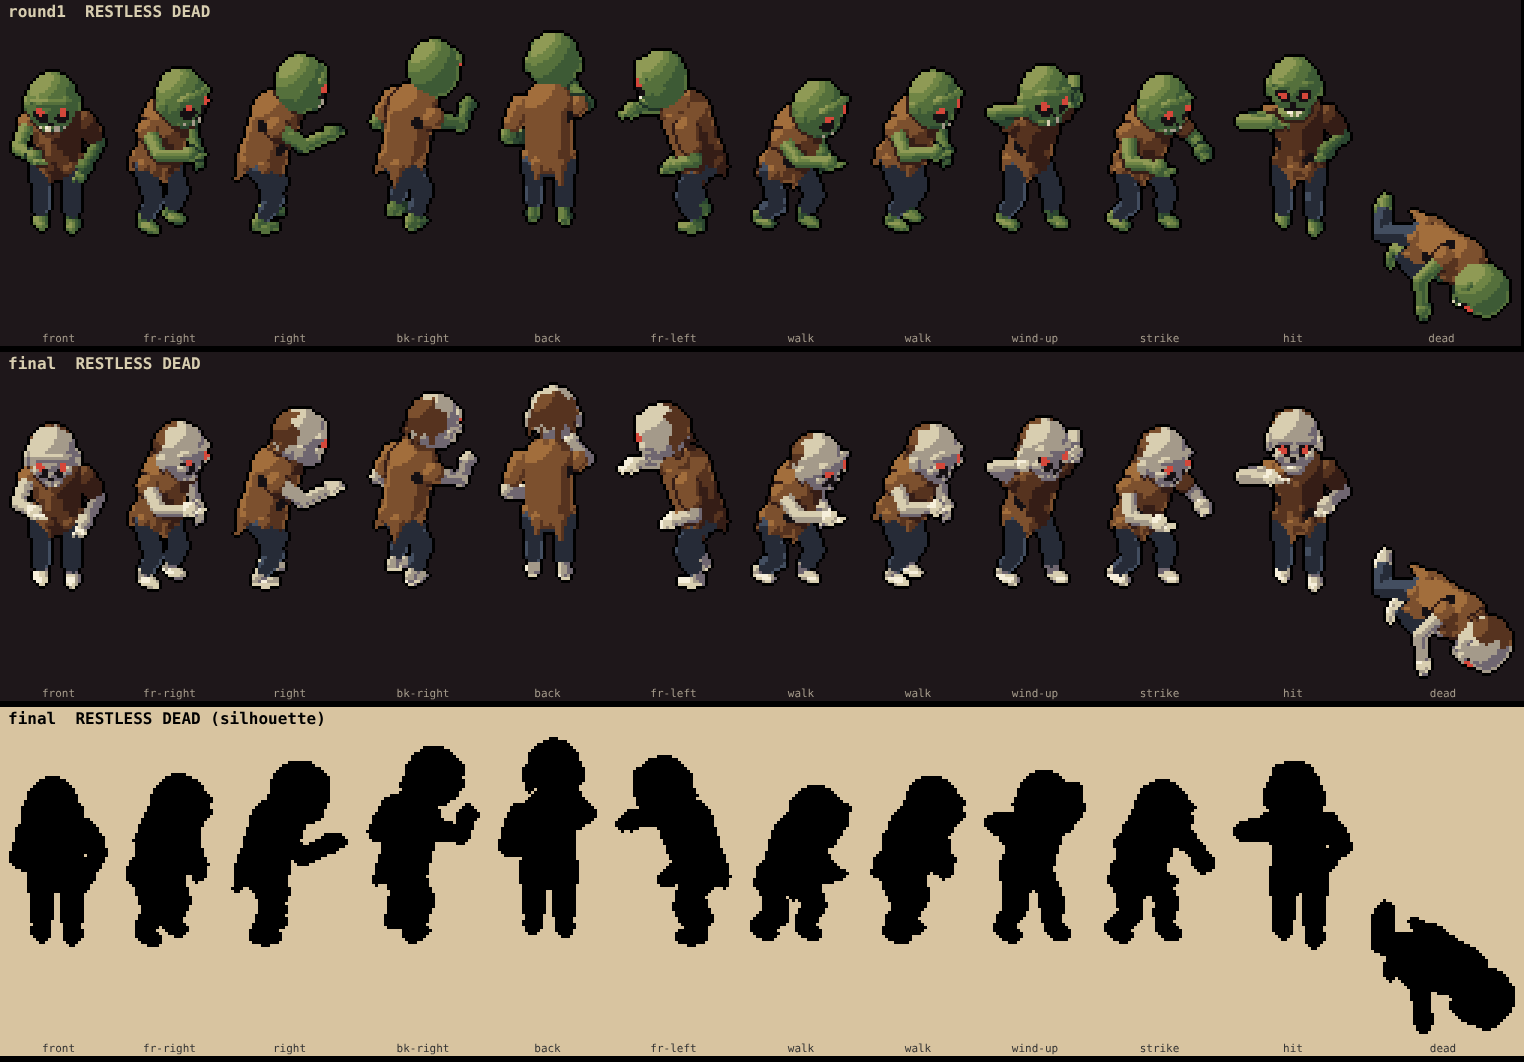
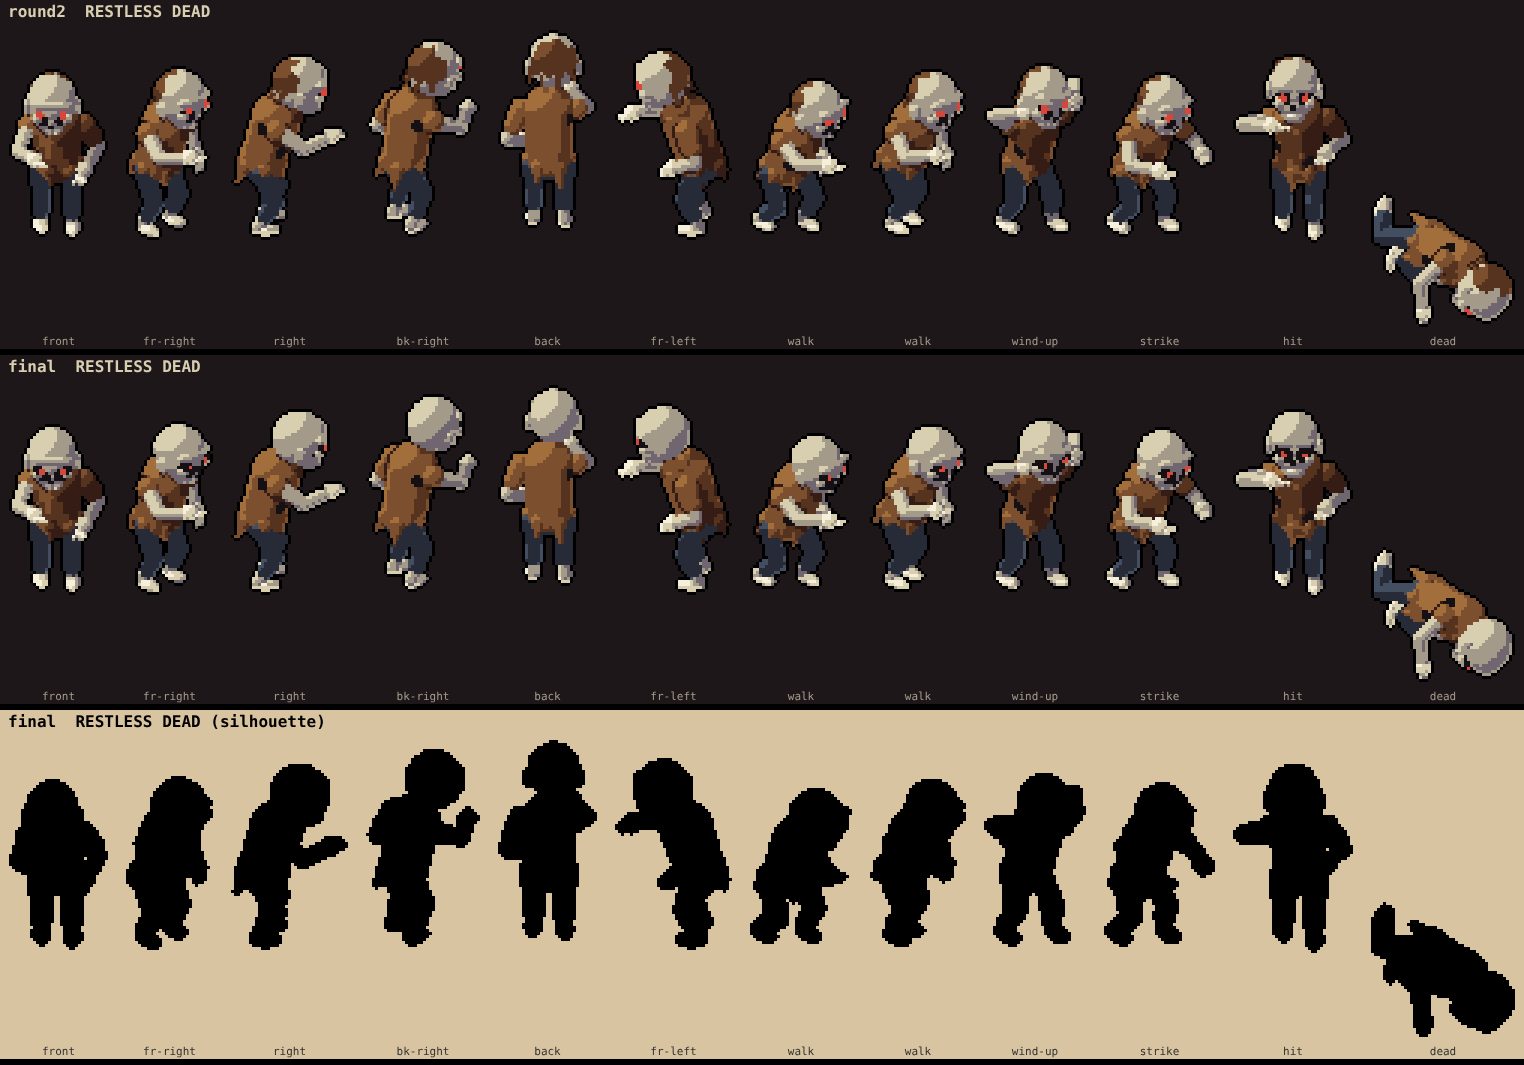
Art B3: Restless Dead bald skull head (no hair patch), dark eye sockets
Claude-Session: https://claude.ai/code/session_01QbDoFLJr5rX34eWgCEDPgG

diff --git a/diablo-clone/game/js/monsters.js b/diablo-clone/game/js/monsters.js
@@ -1399,14 +1399,12 @@ function zombieRig(look, st) {
     const cr = V.add(V.mad(hd, up, 0.8), V.mul(fwd, -0.5));
     r.ell(cr, [4.6, 4.1, 4.5], flesh, frameAlong(fwd, up), { mf: p => {
       const q = V.sub(p, hd), f2 = V.dot(q, fwd), s2 = V.dot(q, sideR), z2 = V.dot(q, up);
-      if (f2 > 1.4 && (Math.abs(s2) - 1.8) ** 2 + (z2 - 0.2) ** 2 < 1.6) return M.DARK;   // sunken sockets
-      // a dark, balding scalp over the crown and the back of the head, with a ragged edge
-      if (f2 < -1.0 + Math.sin(s2 * 2.3) * 0.7 && z2 > 0.4 + f2 * 0.3 + Math.cos(s2 * 3.1) * 0.5) return M.HAIR;   // (behind the crown only: the dome stays bald from the front)
+      if (f2 > 1.0 && (Math.abs(s2) - 1.8) ** 2 + (z2 - 0.1) ** 2 < 2.3) return M.DARK;   // big sunken sockets (B3: skull-like)
       return 0;
     } });
     r.ell(V.add(V.mad(hd, fwd, 1.4), V.mul(up, -1.4)), [3.0, 3.1, 2.8], flesh, frameAlong(fwd, up), { mf: p => {
       const q = V.sub(p, hd), f2 = V.dot(q, fwd), s2 = V.dot(q, sideR), z2 = V.dot(q, up);
-      if (f2 > 1.4 && (Math.abs(s2) - 1.8) ** 2 + (z2 - 0.2) ** 2 < 1.6) return M.DARK;   // sunken sockets
+      if (f2 > 1.0 && (Math.abs(s2) - 1.8) ** 2 + (z2 - 0.1) ** 2 < 2.3) return M.DARK;   // big sunken sockets (B3: skull-like)
       if (f2 > 3 && Math.abs(s2) < 0.5 && z2 < -0.8 && z2 > -1.8) return M.DARK;            // nose hole
       if (f2 > 2.2 && Math.abs(s2) > 1.6 && z2 < -1.6) return M.HORN;                       // hollow cheeks under the cheekbones
       return 0;
@@ -1415,13 +1413,12 @@ function zombieRig(look, st) {
     r.ell(V.add(V.mad(hd, fwd, 2.6), V.mul(up, 1.8)), [1.4, 3.6, 1.0], flesh, frameAlong(fwd, up));   // brow ridge
     for (const s of [-1, 1]) r.ell(V.add(V.mad(hd, sideR, s * 4.2), V.mul(up, -0.4)), [1.2, 0.7, 1.5], flesh, frameAlong(fwd, up));   // ears
   });
-  for (const s of [-1, 1]) r.sph(V.add(V.add(V.mad(hd, fwd, 3.6), V.mul(sideR, s * 1.8)), V.mul(up, 0.2)), 0.75, M.EYE_RED, { noShadow: true });
+  for (const s of [-1, 1]) {   // B3: big dark round sockets set into the skull face, a small red glint deep inside each
+    r.ell(V.add(V.add(V.mad(hd, fwd, 3.1), V.mul(sideR, s * 1.8)), V.mul(up, 0.1)), [0.9, 1.35, 1.25], M.DARK, frameAlong(fwd, up), { noShadow: true });
+    r.sph(V.add(V.add(V.mad(hd, fwd, 3.7), V.mul(sideR, s * 1.8)), V.mul(up, 0.0)), 0.6, M.EYE_RED, { noShadow: true });
+  }
   const jc = V.add(V.mad(hd, fwd, 2.2), V.mul(up, -3.6));   // the hanging jaw, mouth gaping dark
   r.ell(V.add(jc, V.mul(up, 1.1)), [1.8, 2.2, 1.0], M.DARK, frameAlong(fwd, up), { noShadow: true });
-  for (const [a, z, l] of [[2.4, 4.4, 4], [3.0, 3.0, 3.4], [3.6, 4.0, 4.2], [4.2, 2.6, 3.0]]) {   // a few lank hair wisps hanging at the back
-    const d = V.add(V.mul(fwd, Math.cos(a)), V.mul(sideR, Math.sin(a))), p0 = V.add(V.mad(hd, d, 3.6), V.mul(up, z - 1.4));
-    r.cone(p0, V.add(V.mad(p0, up, -l), V.mul(d, 1.2)), 0.8, 0.35, M.HAIR);
-  }
   r.ell(jc, [2.3, 2.0, 1.3], flesh, frameAlong(fwd, up), { mf: p => V.dot(V.sub(p, jc), fwd) > 1.6 && V.dot(V.sub(p, jc), up) > 0.4 && (Math.round(V.dot(V.sub(p, jc), sideR) * 1.4) & 1) ? M.CLOTH_WHITE : 0 });
   if (clip === 'death') deathTip(r, B, f, 1);
   if (look.scale && look.scale !== 1) scaleRig(r, look.scale);

diff --git a/diablo-clone/art/ART_LOG.md b/diablo-clone/art/ART_LOG.md
@@ -357,3 +357,9 @@ Test copy republished with this round's `monsters.js`/`actors.js` (new monsters 
 show flat shading bands; enforcer cleaver very pale from the front; gravebow's quiver hidden in the pure front view;
 cave bat membrane shows thin CHITIN highlights; Restless Dead's pale flesh is close to skeleton bone at 1x; bog toad
 throat is ochre (no pale green in the palette); crossbowman's bone prod reads paler than the concept's wood.
+
+## B3: Restless Dead head fix (2026-11-04)
+The user disliked the brown on the Restless Dead's head (B2 pass 6-7 had added a dark balding scalp patch and hair
+wisps). Removed both: the head is now a bald pale skull like the concept. Added big dark round eye sockets with a
+small red glint deep in each (front views now read as a skull face). Kept: won both orders vs B2's final. Other
+monsters pixel-identical; 304 frames, 0 sprite-edge hits; no page errors. Review/progress/test pages updated.
